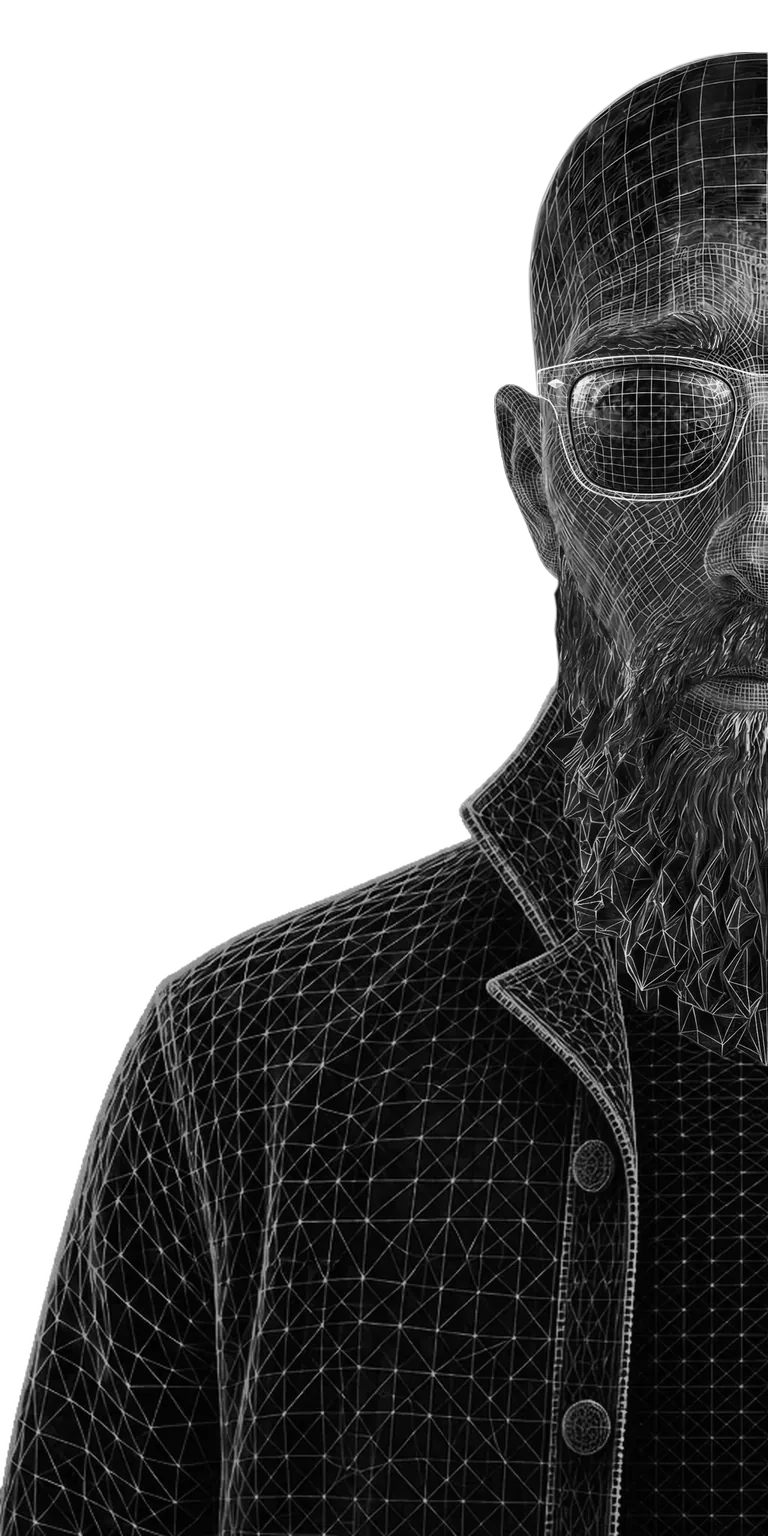
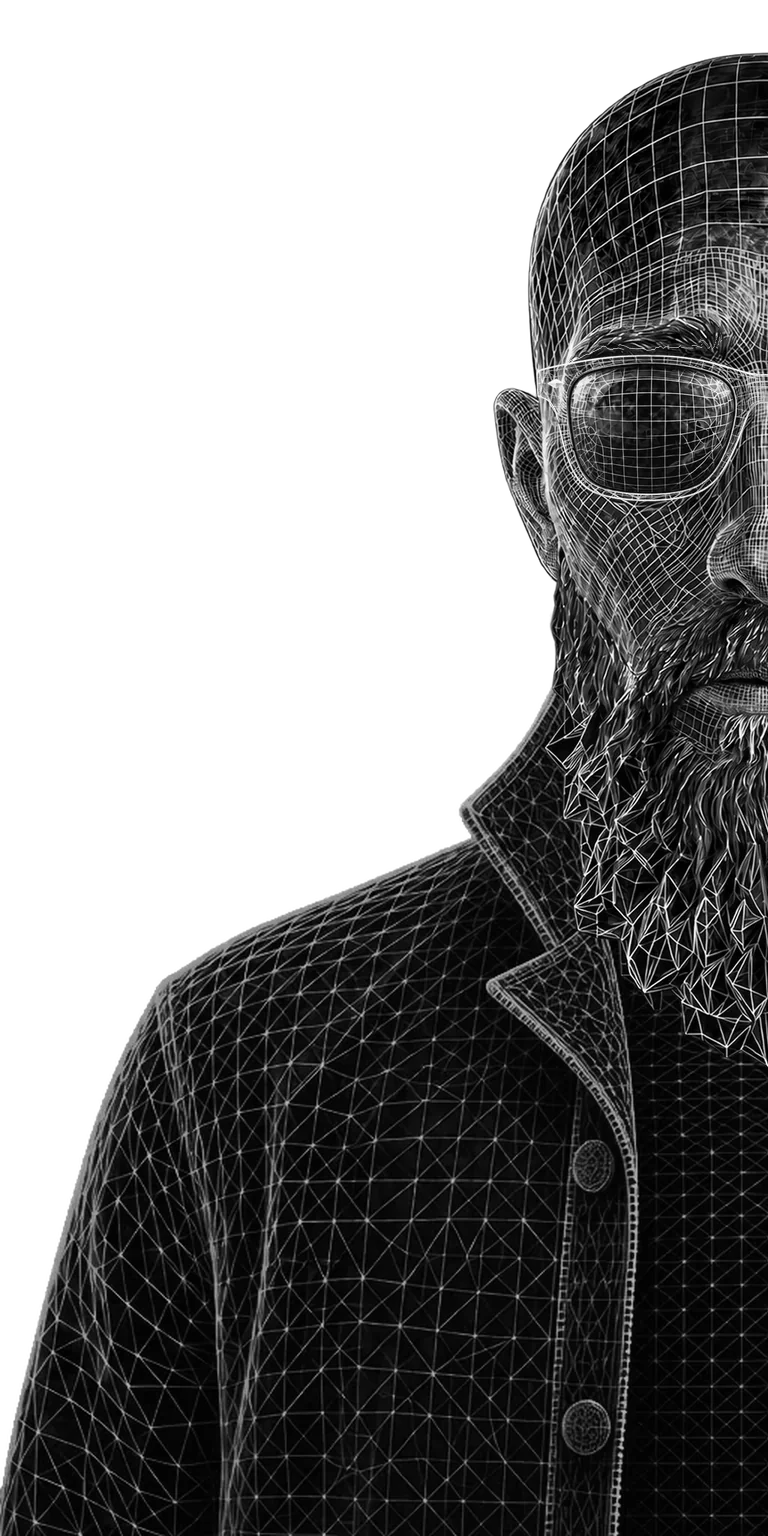
Character head v3: new art cut into the site's parts
- scripts/cut-character.py cuts a flat head render into face, eyes, eyebrows,
  ears and beard, using the v2 Figma parts as the template; aligned by the
  pupils so the glasses and cap still fit
- public/character/v3/head/*.webp + characterLayout.json boxes; cap and
  glasses stay v2
- The face under the beard (not in a flat render) is v2's chin and lips in
  the new colours; eyes and ears are continued under the face
- Hero side stills and the phone portrait re-baked with the same recipes
- v2 head parts moved to scripts/character/template; ADR 0005 updated

Claude-Session: https://claude.ai/code/session_01PDghr1U5saYiR9N3dbNNMs

Changed region(s): [[0.625, 0.0312, 1.0, 0.6875]]

diff --git a/scripts/cut-character.py b/scripts/cut-character.py
@@ -1,0 +1,253 @@
+#!/usr/bin/env python3
+"""Cut a flat render of the character's head into the parts the site layers.
+
+The head is drawn as separate parts (face, eyes, eyebrows, ears, beard) so the
+live <Character /> can turn and look around and What I Do can assemble it on
+scroll. New art usually arrives as one flat picture instead. This script cuts
+that picture into the same parts, in the same frame, so every place that uses
+the character picks it up without code changes.
+
+  python3 scripts/cut-character.py scripts/character/head-v3-source.webp --version v3
+
+  1. Lines the picture up with the head frame by the pupils: they have to land
+     where the template's are, or the glasses stop fitting.
+  2. Gives every pixel to the part that shows there in the template
+     (scripts/character/template: the v2 parts from Figma). Pixels just outside
+     the template's outline go to the nearest part.
+  3. Fills what a flat picture can't have: the eyes and ears where the face
+     covers them (continued from what shows), and the face under the beard,
+     which is the template's own chin and lips, recoloured with the new art's
+     colours. The beard covers it whenever it's shown, but What I Do shows the
+     face alone first.
+  4. Writes trimmed WebP parts at 2x the head frame to
+     public/character/<version>/head/ and their boxes into characterLayout.json.
+     The cap and the glasses aren't in the picture and are left as they are.
+
+Needs Pillow, numpy, scipy, scikit-image and opencv-python. Check the result
+before shipping it (--preview writes a sheet: full head, bare face, other parts).
+"""
+import argparse
+import json
+from pathlib import Path
+
+import cv2
+import numpy as np
+from PIL import Image
+from scipy import ndimage
+from skimage import color
+
+ROOT = Path(__file__).resolve().parent.parent
+TEMPLATE = ROOT / 'scripts/character/template'
+LAYOUT = ROOT / 'src/components/composites/character/characterLayout.json'
+PUBLIC = ROOT / 'public'
+
+SCALE = 2                           # parts are 2x the 420x780 head frame
+W, H = 420 * SCALE, 780 * SCALE
+ALPHA_FLOOR = 8                     # stray alpha below this is noise, not art
+# Paint order, top first: who owns a pixel both parts cover.
+TOP_DOWN = ['beard', 'brow-left', 'brow-right', 'face', 'ear-left', 'ear-right', 'eye-left', 'eye-right']
+# The beard keeps its whisker tips: its template is widened this much (2x px)
+# inside the outline, so what reads as beard in the new art stays with it.
+BEARD_GROW = 5
+
+
+def disk(r):
+    y, x = np.ogrid[-r:r + 1, -r:r + 1]
+    return x * x + y * y <= r * r
+
+
+def template():
+    meta = json.loads((TEMPLATE / 'template.json').read_text())['parts']
+    rgba = {}
+    for name, p in meta.items():
+        canvas = Image.new('RGBA', (W, H))
+        img = Image.open(TEMPLATE / p['file']).convert('RGBA')
+        img = img.resize((round(p['width'] * SCALE), round(p['height'] * SCALE)), Image.LANCZOS)
+        canvas.alpha_composite(img, (round(p['x'] * SCALE), round(p['y'] * SCALE)))
+        rgba[name] = np.asarray(canvas, np.float32) / 255
+    return rgba
+
+
+def pupil(rgba, box):
+    """Centre of the darkest round spot in `box` (x0, y0, x1, y1): the pupil."""
+    x0, y0, x1, y1 = (int(v) for v in box)
+    sub = rgba[y0:y1, x0:x1]
+    lum = 0.2126 * sub[..., 0] + 0.7152 * sub[..., 1] + 0.0722 * sub[..., 2]
+    lum = np.where(sub[..., 3] > 0.8, lum, 1.0)
+    lum = ndimage.uniform_filter(lum, 15)
+    y, x = np.unravel_index(np.argmin(lum), lum.shape)
+    return np.array([x0 + x, y0 + y], float)
+
+
+def align(src, tpl):
+    """The source in the head frame: scaled and moved so its pupils sit on the template's."""
+    a = src[..., 3]
+    ys, xs = np.where(a > 0.5)
+    bx0, by0, bw, bh = xs.min(), ys.min(), xs.max() - xs.min(), ys.max() - ys.min()
+    # The pupils are about a third of the way down, a quarter in from each side.
+    s_right = pupil(src, (bx0 + 0.12 * bw, by0 + 0.25 * bh, bx0 + 0.45 * bw, by0 + 0.45 * bh))
+    s_left = pupil(src, (bx0 + 0.55 * bw, by0 + 0.25 * bh, bx0 + 0.88 * bw, by0 + 0.45 * bh))
+
+    def eye_centre(name):
+        ys, xs = np.where(tpl[name][..., 3] > 0.5)
+        return pupil(tpl[name], (xs.min(), ys.min(), xs.max() + 1, ys.max() + 1))
+
+    t_right, t_left = eye_centre('eye-right'), eye_centre('eye-left')
+    scale = np.linalg.norm(t_left - t_right) / np.linalg.norm(s_left - s_right)
+    s_mid, t_mid = (s_left + s_right) / 2, (t_left + t_right) / 2
+    print(f'pupils: source {s_right.round()} {s_left.round()}, template {t_right.round()} {t_left.round()}, scale {scale:.4f}')
+
+    # Premultiplied, so the transparent surround doesn't darken the edges.
+    pre = src.copy()
+    pre[..., :3] *= pre[..., 3:4]
+    inv = 1 / scale
+    m = (inv, 0, s_mid[0] - t_mid[0] * inv, 0, inv, s_mid[1] - t_mid[1] * inv)
+    chans = [Image.fromarray(pre[..., c]).transform((W, H), Image.AFFINE, m, resample=Image.BICUBIC) for c in range(4)]
+    out = np.clip(np.dstack([np.asarray(c, np.float32) for c in chans]), 0, 1)
+    out[..., :3] /= np.maximum(out[..., 3:4], 1e-4)
+    return np.clip(out, 0, 1)
+
+
+def ownership(tpl, new_alpha):
+    """How much of each pixel each part owns (sums to 1 wherever the new art is)."""
+    alpha = {k: tpl[k][..., 3].copy() for k in TOP_DOWN}
+    alpha['beard'] = np.maximum(alpha['beard'], ndimage.grey_dilation(alpha['beard'], footprint=disk(BEARD_GROW)))
+    union = np.max(np.stack(list(alpha.values())), 0)
+    hard = np.zeros((H, W), np.int32)
+    for i, k in enumerate(reversed(TOP_DOWN)):
+        hard[alpha[k] > 0.5] = i + 1
+    _, (iy, ix) = ndimage.distance_transform_edt(hard == 0, return_indices=True)
+    near = hard[iy, ix]
+    ext = {}
+    for i, k in enumerate(reversed(TOP_DOWN)):
+        e = alpha[k].copy()
+        e[(union < 0.5) & (near == i + 1)] = 1
+        ext[k] = e
+    remaining = np.ones((H, W), np.float32)
+    own = {}
+    for k in TOP_DOWN:
+        own[k] = ext[k] * remaining
+        remaining = remaining * (1 - ext[k])
+    for i, k in enumerate(reversed(TOP_DOWN)):
+        own[k] = own[k] + remaining * (near == i + 1)
+    return own, ext
+
+
+def colour_field(img, mask, sigmas=(12, 30, 70, 160, 400)):
+    """The low-frequency colour of `img` where `mask`, carried outward into the rest."""
+    out = np.zeros_like(img)
+    filled = np.zeros(mask.shape, np.float32)
+    for s in sigmas:
+        num = np.dstack([ndimage.gaussian_filter(img[..., c] * mask, s) for c in range(img.shape[2])])
+        den = ndimage.gaussian_filter(mask, s)
+        weight = np.clip(den / 0.2, 0, 1) * (1 - filled)
+        out += num / np.maximum(den, 1e-6)[..., None] * weight[..., None]
+        filled += weight
+    return out / np.maximum(filled, 1e-6)[..., None]
+
+
+def cut(src_path):
+    tpl = template()
+    src = np.asarray(Image.open(src_path).convert('RGBA'), np.float32) / 255
+    # Flat exports often stop just short of opaque (~0.99); read that as solid.
+    src[..., 3] = np.clip(src[..., 3] / 0.98, 0, 1)
+    new = align(src, tpl)
+    rgb, a = new[..., :3], new[..., 3]
+    own, ext = ownership(tpl, a)
+    parts = {}
+
+    # Topmost parts: just what shows.
+    for k in ('beard', 'brow-left', 'brow-right'):
+        parts[k] = (rgb, a * own[k])
+
+    # The face: what shows, plus the template's chin and lips under the beard,
+    # moved into the new art's colours (Lab detail of the old, colour of the new).
+    old = tpl['face']
+    face_a_old = old[..., 3]
+    beard = np.clip(ext['beard'], 0, 1)
+    shows = np.clip(a * own['face'], 0, 1)
+    skin = (shows > 0.9).astype(np.float32)
+    lab_new = color.rgb2lab(rgb)
+    lab_old = color.rgb2lab(np.clip(old[..., :3], 0, 1))
+    under = color.lab2rgb(lab_old - colour_field(lab_old, (face_a_old > 0.9).astype(np.float32))
+                          + colour_field(lab_new, skin))
+    k = np.where(skin > 0, 0, np.clip(ndimage.gaussian_filter(beard, 2), 0, 1))
+    face_rgb = rgb * (1 - k[..., None]) + under * k[..., None]
+    face_alpha = np.where(face_a_old < 0.02, shows, np.maximum(shows, face_a_old * beard))
+    parts['face'] = (face_rgb, face_alpha)
+
+    # Eyes and ears sit under the face: continue what shows into what it covers,
+    # so the head can turn and the eyes can move without an edge appearing.
+    covers = ndimage.gaussian_filter(face_a_old, 1) > 0.3
+    bgr = cv2.cvtColor((rgb * 255).astype(np.uint8), cv2.COLOR_RGB2BGR)
+    for name in ('ear-left', 'ear-right', 'eye-left', 'eye-right'):
+        tpl_a = tpl[name][..., 3]
+        shows = np.clip(a * own[name], 0, 1)
+        mine = shows > 0.6
+        hidden = (tpl_a > 0.02) & ~mine & covers
+        filled = cv2.inpaint(bgr, hidden.astype(np.uint8) * 255, 5, cv2.INPAINT_TELEA)
+        part_rgb = cv2.cvtColor(filled, cv2.COLOR_BGR2RGB).astype(np.float32) / 255
+        parts[name] = (part_rgb, np.maximum(shows, np.where(hidden, tpl_a, 0)))
+    return parts, new
+
+
+def write(parts, version):
+    layout = json.loads(LAYOUT.read_text())
+    out_dir = PUBLIC / 'character' / version / 'head'
+    out_dir.mkdir(parents=True, exist_ok=True)
+    for name, (rgb, alpha) in parts.items():
+        a8 = (np.clip(alpha, 0, 1) * 255 + 0.5).astype(np.uint8)
+        a8[a8 < ALPHA_FLOOR] = 0
+        img = Image.fromarray(np.dstack([(np.clip(rgb, 0, 1) * 255 + 0.5).astype(np.uint8), a8]), 'RGBA')
+        bbox = img.getchannel('A').getbbox()
+        img = img.crop(bbox)
+        path = out_dir / f'{name}.webp'
+        img.save(path, 'WEBP', quality=85, method=6, alpha_quality=90)
+        layout['parts'][name] = {
+            'src': f'/character/{version}/head/{name}.webp',
+            'x': round(bbox[0] / SCALE, 2),
+            'y': round(bbox[1] / SCALE, 2),
+            'width': round(img.width / SCALE, 2),
+            'height': round(img.height / SCALE, 2),
+        }
+        print(f'{path.relative_to(ROOT)}  {img.width}x{img.height}  {path.stat().st_size // 1024} KB')
+    LAYOUT.write_text(json.dumps(layout, indent=2) + '\n')
+
+
+def preview(parts, new, path):
+    order = [n for n in json.loads(LAYOUT.read_text())['order'] if n in parts]
+
+    def comp(names):
+        canvas = Image.new('RGBA', (W, H), (20, 16, 28, 255))
+        for n in order:
+            if n in names:
+                rgb, alpha = parts[n]
+                canvas.alpha_composite(Image.fromarray((np.dstack([rgb, alpha]) * 255).clip(0, 255).astype(np.uint8)))
+        return canvas
+
+    sheet = Image.new('RGBA', (W * 3, H))
+    sheet.paste(comp(order), (0, 0))
+    sheet.paste(comp(['face']), (W, 0))
+    sheet.paste(comp([n for n in order if n != 'face']), (2 * W, 0))
+    sheet.save(path)
+    full = np.asarray(comp(order), np.float32)
+    ref = Image.new('RGBA', (W, H), (20, 16, 28, 255))
+    ref.alpha_composite(Image.fromarray((new * 255).clip(0, 255).astype(np.uint8)))
+    diff = np.abs(full - np.asarray(ref, np.float32))[..., :3].mean(2)
+    print(f'{path}  parts put back together vs the source: mean diff {diff.mean():.2f}/255, 99.9th percentile {np.percentile(diff, 99.9):.1f}')
+
+
+def main():
+    p = argparse.ArgumentParser(description=__doc__, formatter_class=argparse.RawDescriptionHelpFormatter)
+    p.add_argument('source', help='the flat head render, transparent background')
+    p.add_argument('--version', default='v3', help='public/character/<version>/head')
+    p.add_argument('--preview', help='also write a check sheet here (PNG)')
+    args = p.parse_args()
+    parts, new = cut(args.source)
+    write(parts, args.version)
+    if args.preview:
+        preview(parts, new, args.preview)
+
+
+if __name__ == '__main__':
+    main()

diff --git a/scripts/export-character.py b/scripts/export-character.py
@@ -1,5 +1,9 @@
 """Figma fills -> tight-cropped WebP parts + characterLayout.json.
 
+The head parts (face, eyes, eyebrows, ears, beard) no longer come from here:
+since v3 they are cut from a flat render by scripts/cut-character.py. A full
+run of this script puts the v2 Figma head back; use --only for new outfits.
+
 Run when the character art changes in Figma:
   1. `get_design_context` (Figma MCP) on Character Body 3871:1230, Character Head
      3183:6631 and character_glasses 3875:1182, and download each image URL into

diff --git a/docs/adr/0005-character-component.md b/docs/adr/0005-character-component.md
@@ -58,6 +58,18 @@ The hero's side characters look at the mouse: the eyes move in their sockets, an
 - **Black and white:** the right character gets `grayscale` (CSS `grayscale(1)`), which uses the same Rec. 709 weights as the baked still.
 - **Measured at 1440 on a retina screen:** 60fps (17ms per frame) through pointer sweeps; no style writes once settled. At rest the live characters match the stills to an average difference of about 4/255.
 
+## Head v3 (2026-10-08)
+
+The head art was refreshed (new colours, eyes, texture) and delivered as one flat render instead of Figma parts. It is the same face — pupils, nose, mouth and outline land within 1–3px of v2 once scaled — so it's cut with the v2 parts as the template.
+
+- **Cut:** `scripts/cut-character.py <render> --version v3` lines the render up with the head frame by the pupils (so the glasses and cap still fit), gives every pixel to the part that shows there in v2, and writes `public/character/v3/head/*.webp` plus the boxes in `characterLayout.json`. Put back together, the parts match the render to a mean 0.1/255.
+- **Template and source:** the v2 head parts moved to `scripts/character/template/`; the render is `scripts/character/head-v3-source.webp` (lossless). The cap and the glasses stay v2.
+- **What a flat render can't give:**
+  - The face under the beard isn't in it. v3's chin and lips under the beard are v2's, moved into the new colours (v2's Lab detail, v3's low-frequency colour). Only What I Do's bare-face step shows it; everywhere else the beard covers it.
+  - Eyes and ears where the face covers them are continued from what shows (OpenCV Telea), so the turn and the gaze never uncover an edge.
+- **Stills:** the hero's side characters and the phone portrait were re-baked with the same recipes, so the stills still match the live layers they crossfade into.
+- **If the beardless face arrives**, cut it the same way and swap the face's lower half for it; nothing else changes.
+
 ## Options considered
 
 ### A: Layered raster parts (chosen)

diff --git a/README.md b/README.md
@@ -44,8 +44,9 @@ npm run build && npm run start
 | `npm run images` | Right-sizes new project images and converts them to WebP. `-- --dry` reports without changing anything. |
 | `npm run push` | `git push` with a larger buffer, for pushes with big assets. |
 
-Two Python scripts bake the character artwork: `scripts/bake-character.py` and
-`scripts/export-character.py`. See `docs/adr/0005-character-component.md`.
+Python scripts make the character artwork: `scripts/cut-character.py` (head parts
+from a flat render), `scripts/export-character.py` (bodies and glasses from Figma)
+and `scripts/bake-character.py` (stills). See `docs/adr/0005-character-component.md`.
 
 ### Design tokens are generated
 
